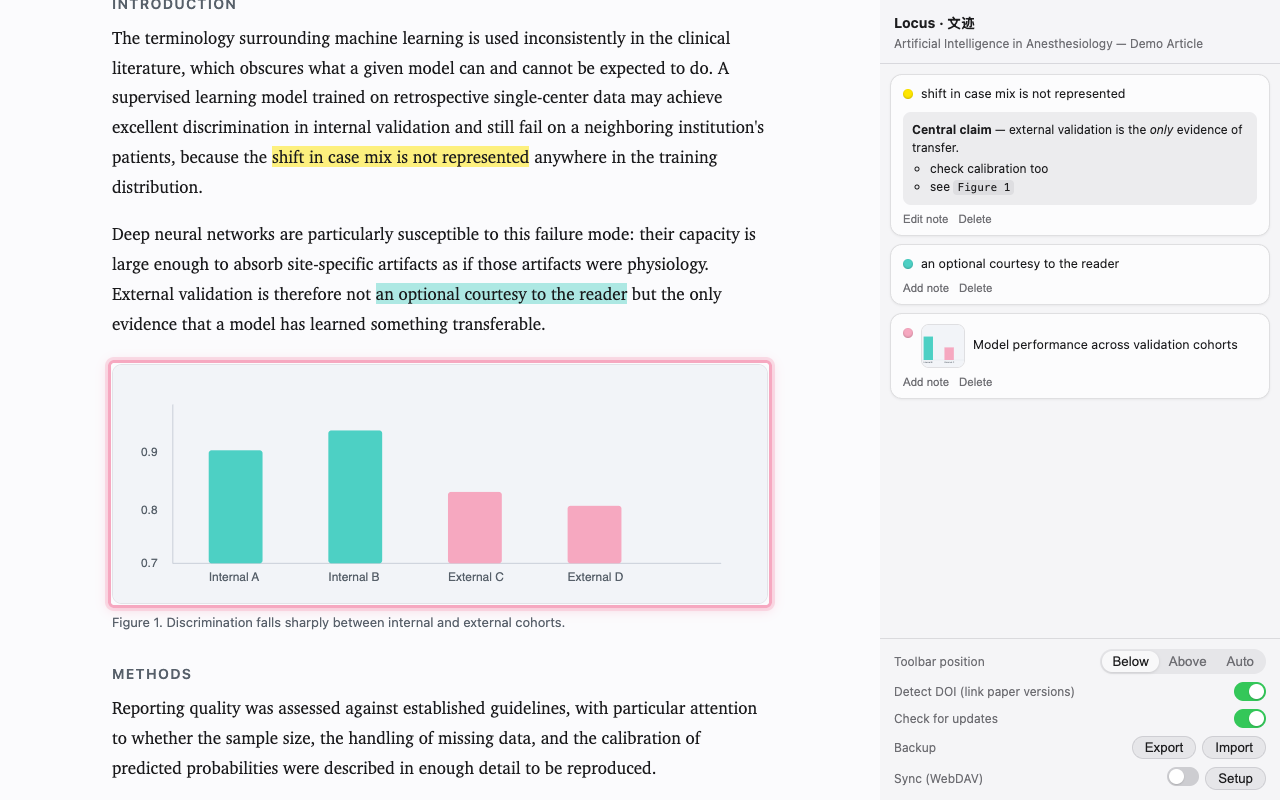
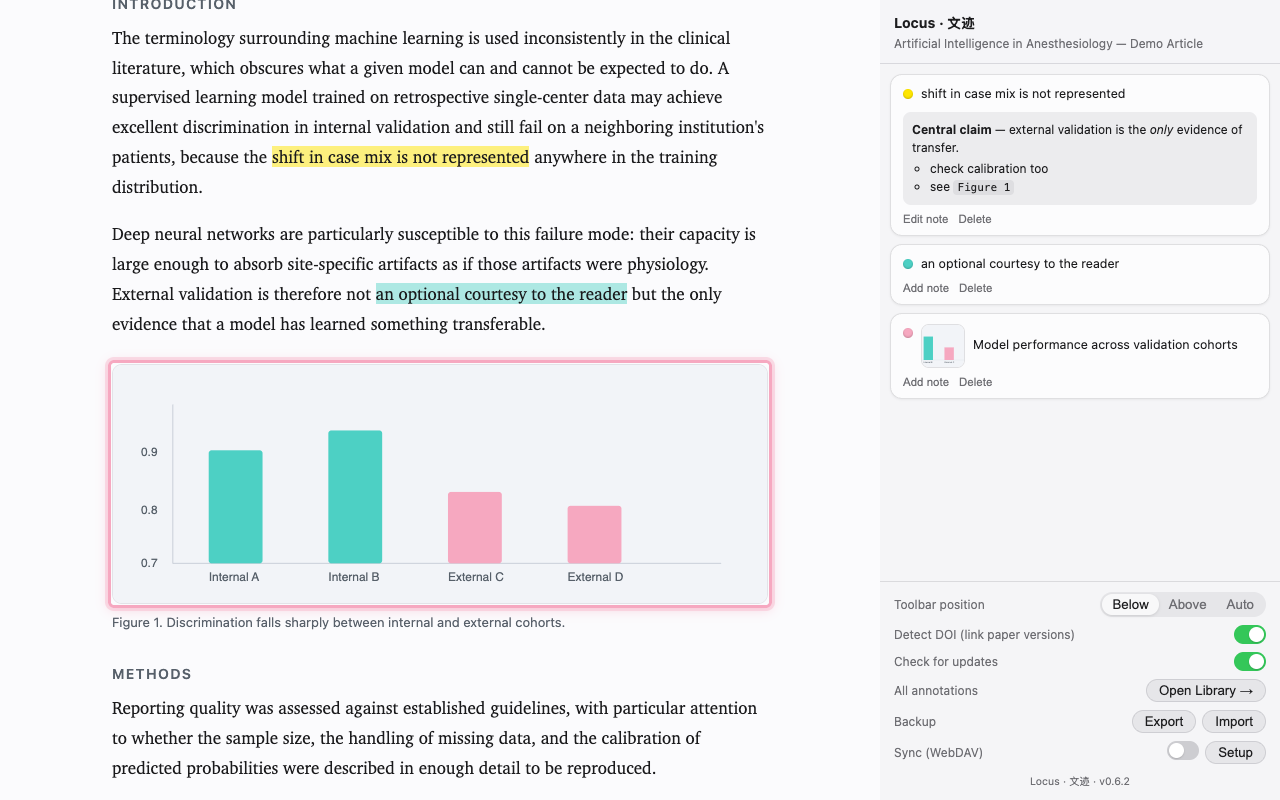
Release v0.6.2 side-panel Library access

Changed region(s): [[0.875, 0.75, 1.0, 1.0], [0.6875, 0.75, 0.8438, 1.0], [0.8125, 0.9688, 0.875, 1.0]]

diff --git a/e2e/locus.spec.ts b/e2e/locus.spec.ts
@@ -201,6 +201,26 @@ test('E10: delete uses a tombstone with temporary undo', async ({
   expect(row?.deletedAt).toBeGreaterThan(0);
 });
 
+test('E41: side panel shows its version and opens the full Library', async ({
+  context,
+  serviceWorker,
+  extensionId,
+}) => {
+  const page = await context.newPage();
+  await page.goto(NESTED);
+  const panel = await openPanelFor(page, serviceWorker, extensionId, NESTED);
+  const version = await panel.evaluate(() => chrome.runtime.getManifest().version);
+  await expect(panel.locator('[data-locus-version]')).toHaveText(`Locus · 文迹 · v${version}`);
+
+  const [library] = await Promise.all([
+    context.waitForEvent('page'),
+    panel.locator('button[data-action="open-library"]').click(),
+  ]);
+  await library.waitForLoadState('domcontentloaded');
+  await expect(library).toHaveURL(`chrome-extension://${extensionId}/library.html`);
+  await expect(library.locator('.library-header')).toBeVisible();
+});
+
 test('E11: creating highlights causes no layout shift', async ({ context, serviceWorker }) => {
   const page = await context.newPage();
   for (const [url, selector, text] of [

diff --git a/src/entrypoints/sidepanel/App.tsx b/src/entrypoints/sidepanel/App.tsx
@@ -230,6 +230,7 @@ export function App() {
   const pageColors = buildPaletteForKeys(pageColorKeys, prefs.customColors).slice(3);
   const items = data?.items ?? [];
   const supported = target !== null && /^https?:/.test(target.url);
+  const version = chrome.runtime.getManifest().version;
 
   const placements: Array<{ value: ToolbarPlacement; label: string }> = [
     { value: 'below', label: 'Below' },
@@ -348,8 +349,21 @@ export function App() {
             </div>
           </div>
         )}
+        <div className="pref-row">
+          <span className="pref-label">All annotations</span>
+          <button
+            className="pref-button"
+            data-action="open-library"
+            onClick={() => void requestBg({ type: 'library:open' })}
+          >
+            Open Library →
+          </button>
+        </div>
         <BackupRow />
         <SyncRow />
+        <p className="panel-version" data-locus-version>
+          Locus · 文迹 · v{version}
+        </p>
       </footer>
     </div>
   );

diff --git a/src/entrypoints/sidepanel/style.css b/src/entrypoints/sidepanel/style.css
@@ -260,7 +260,8 @@ body {
 
 .backup-row { flex-wrap: wrap; }
 .backup-actions { display: flex; gap: 6px; }
-.backup-actions button {
+.backup-actions button,
+.pref-button {
   border: 0.5px solid var(--locus-border);
   border-radius: 999px;
   background: var(--locus-subtle);
@@ -269,11 +270,24 @@ body {
   color: inherit;
   cursor: pointer;
 }
-.backup-actions button:hover { filter: brightness(1.06); }
+.backup-actions button:hover,
+.pref-button:hover { filter: brightness(1.06); }
+.backup-actions button:focus-visible,
+.pref-button:focus-visible {
+  outline: 2px solid var(--locus-accent);
+  outline-offset: 2px;
+}
 .backup-status {
   flex-basis: 100%;
   margin: 6px 0 0;
   font-size: 11.5px;
+  color: var(--locus-fg-muted);
+}
+
+.panel-version {
+  margin: 2px 0 0;
+  text-align: center;
+  font-size: 10.5px;
   color: var(--locus-fg-muted);
 }
 

diff --git a/docs/ACCEPTANCE-TEST-PLAN.md b/docs/ACCEPTANCE-TEST-PLAN.md
@@ -92,6 +92,7 @@ for observability without page-world coupling.
 | E38 | page colors | a new page starts with three (at most five) choices; three manual additions persist only on that page; side-panel removal hides the choice without changing an existing annotation's rendered color |
 | E39 | library cards | page cards show at most five matching annotations by default, expose the complete remainder through an ellipsis control, keep hidden matches searchable, and pack variable-height cards without grid-row gaps |
 | E40 | library sites | site chips merge host variants into readable families; deleting the last live annotation in a selected family removes the stale chip and filter, while the deleted bin retains its own family/count universe |
+| E41 | side panel navigation | the panel displays the version from its manifest and its All annotations control opens the full Library page |
 
 ## Manual checklist (pre-release)
 
